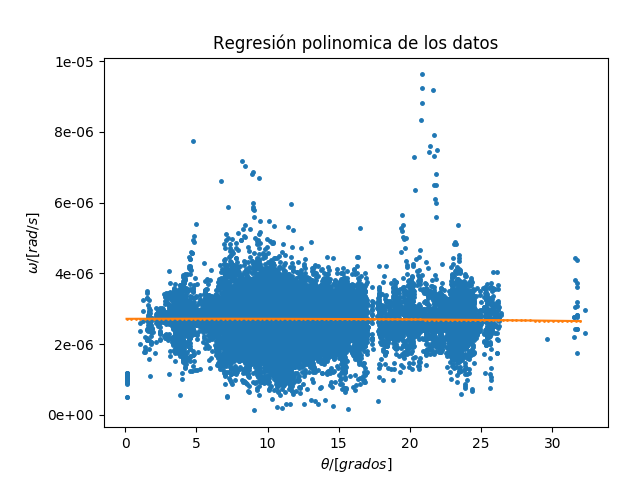
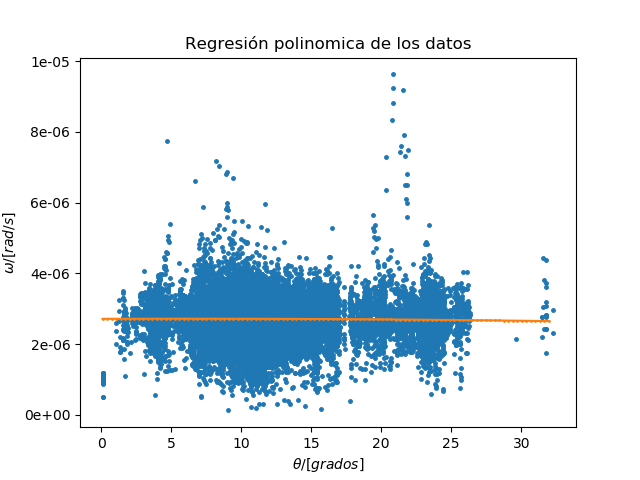
Imagenes de salida y arreglo de codigo

diff --git a/sun.py b/sun.py
@@ -71,7 +71,7 @@ def mainSun(comsois, RESOLUCION):
 
     y, x, sin_x_2 = sun.getPlotValuesFromComsois(comsois, ve_comsois, center)
 
-    print u"Realizando regresión polinomica para los datos obtenidos ..."
+    print "Realizando regresión polinomica para los datos obtenidos ..."
     # Retorna ax^2+bx+c -> (a, b, c)
     coeffs = np.polyfit(sin_x_2, y, 2, rcond=None, full=False, w=None, cov=False)
 
@@ -88,8 +88,8 @@ def mainSun(comsois, RESOLUCION):
     for i in range(100):
         x_order.append(min_x + i * (max_x - min_x) / 100)
 
-    print u"El valor mínimo encontrado para el ángulo theta es: " + str(min_x * 180 / math.pi) + " grados"
-    print u"El valor máximo encontrado para el ángulo theta es: " + str(max_x * 180 / math.pi) + " grados"
+    print "El valor mínimo encontrado para el ángulo theta es: " + str(min_x * 180 / math.pi) + " grados"
+    print "El valor máximo encontrado para el ángulo theta es: " + str(max_x * 180 / math.pi) + " grados"
 
     # create a polynomial using coefficients
     f = np.poly1d(coeffs)
@@ -99,8 +99,8 @@ def mainSun(comsois, RESOLUCION):
     w_est = np.array(y_est)
     t_est = 2 * math.pi / w_est / 3600 / 24  # dias
 
-    print u"La velocidad angular mínima calculada es: " + str(min(y))
-    print u"La velocidad angular máxima calculada es: " + str(max(y))
+    print "La velocidad angular mínima calculada es: " + str(min(y))
+    print "La velocidad angular máxima calculada es: " + str(max(y))
 
     x_est = np.array(x_order)
     x_est = x_est / math.pi * 180  # grados
